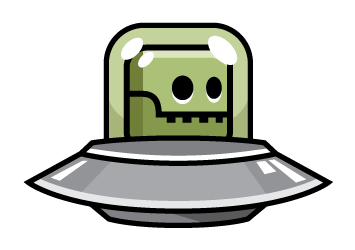
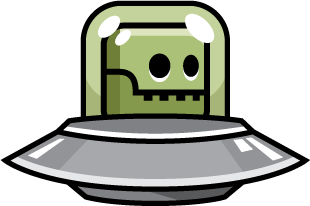
Creacion de enemigos

diff --git a/script.js b/script.js
@@ -2,6 +2,8 @@ const canvas =  document.getElementById("canvas1");
 const ctx = canvas.getContext("2d");
 canvas.width = 900;
 canvas.height = 800;
+let enemiesArray = [];
+const numberOfEnemies = 10;
 
 
 class Player {
@@ -93,8 +95,32 @@ class InputHandler {
 	}
 }
 
+class Enemy {
+	constructor () {
+		this.y = 200;
+		this.spriteWidth = 310;
+		this.spriteHeight = 206;
+		this.width = this.spriteWidth/3;
+		this.height = this.spriteHeight/3;
+		this.image = enemyImage;
+		this.velocityEnemy = Math.random() * 6 + 1;
+		this.x = Math.random() * (canvas.width - this.width) ;
+	}
+
+	update(deltaTime) {
+		this.y += this.velocityEnemy; 
+		console.log(this.velocityEnemy);
+	}
+
+	draw() {
+							// sx,sy,sw,sh,dx,dy,dw,dh
+		ctx.drawImage(this.image, 0, 0, this.spriteWidth, this.spriteHeight, this.x, this.y, this.width, this.height)
+	}
+}
+
 const player = new Player();
-const inputHandler = new InputHandler;
+const inputHandler = new InputHandler();
+const enemy = new Enemy();
 
 let lastTime = 1;
 
@@ -104,6 +130,8 @@ function animate(timeStamp) {
 	ctx.clearRect(0, 0, canvas.width, canvas.height)
 	player.update(deltaTime,inputHandler);
 	player.draw();
+	enemy.update(deltaTime);
+	enemy.draw();
 	requestAnimationFrame(animate);
 }
 

diff --git a/index.html b/index.html
@@ -8,6 +8,7 @@
 <body>
 	<canvas id="canvas1"></canvas>
 	<img src="playerAnimation2.png" id="playerImage" alt="">
+	<img src="ufo.png" id="enemyImage" alt="">
 </body>
 <script type="text/javascript" src="script.js"></script>
 </html>
